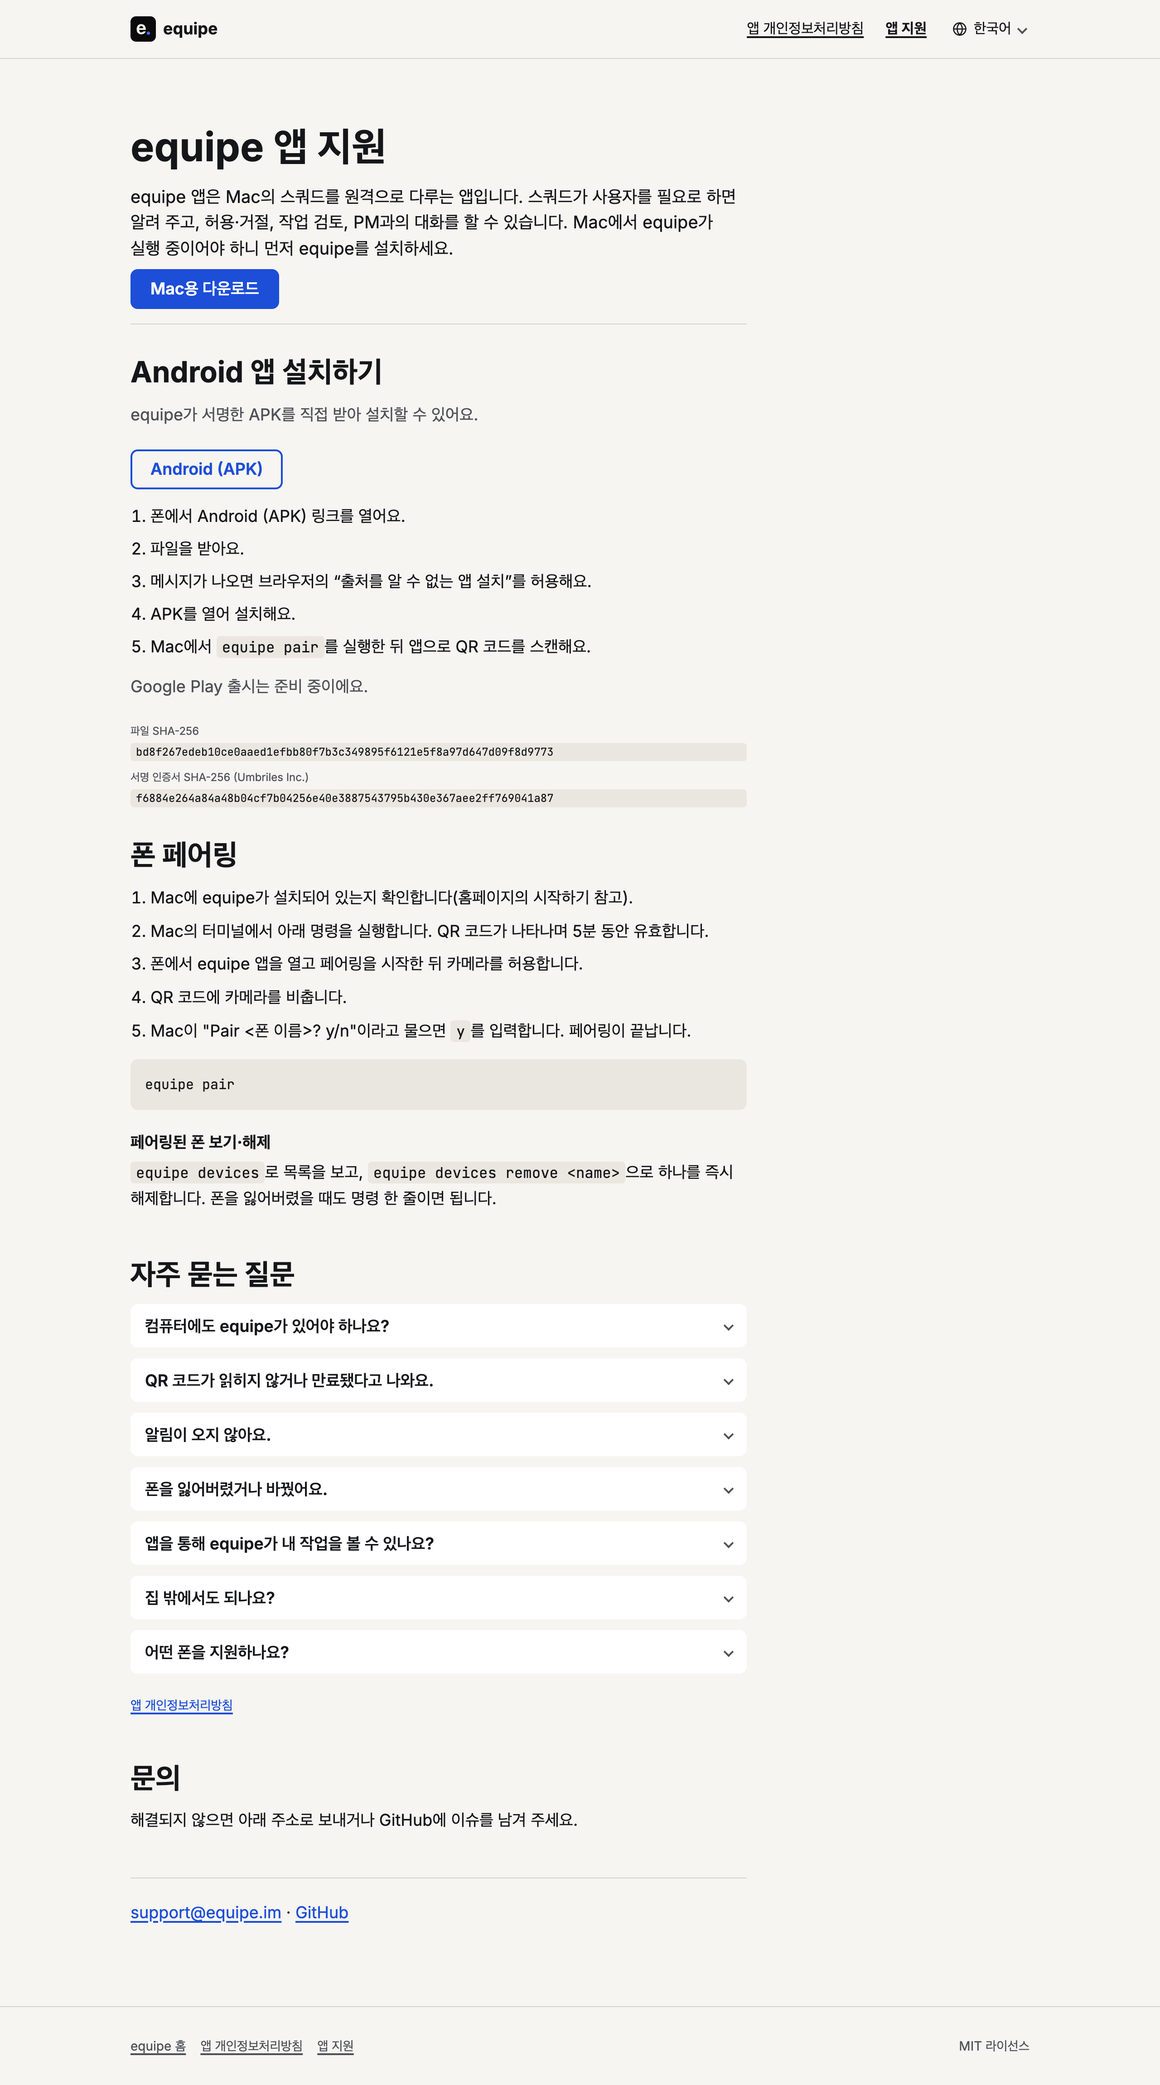
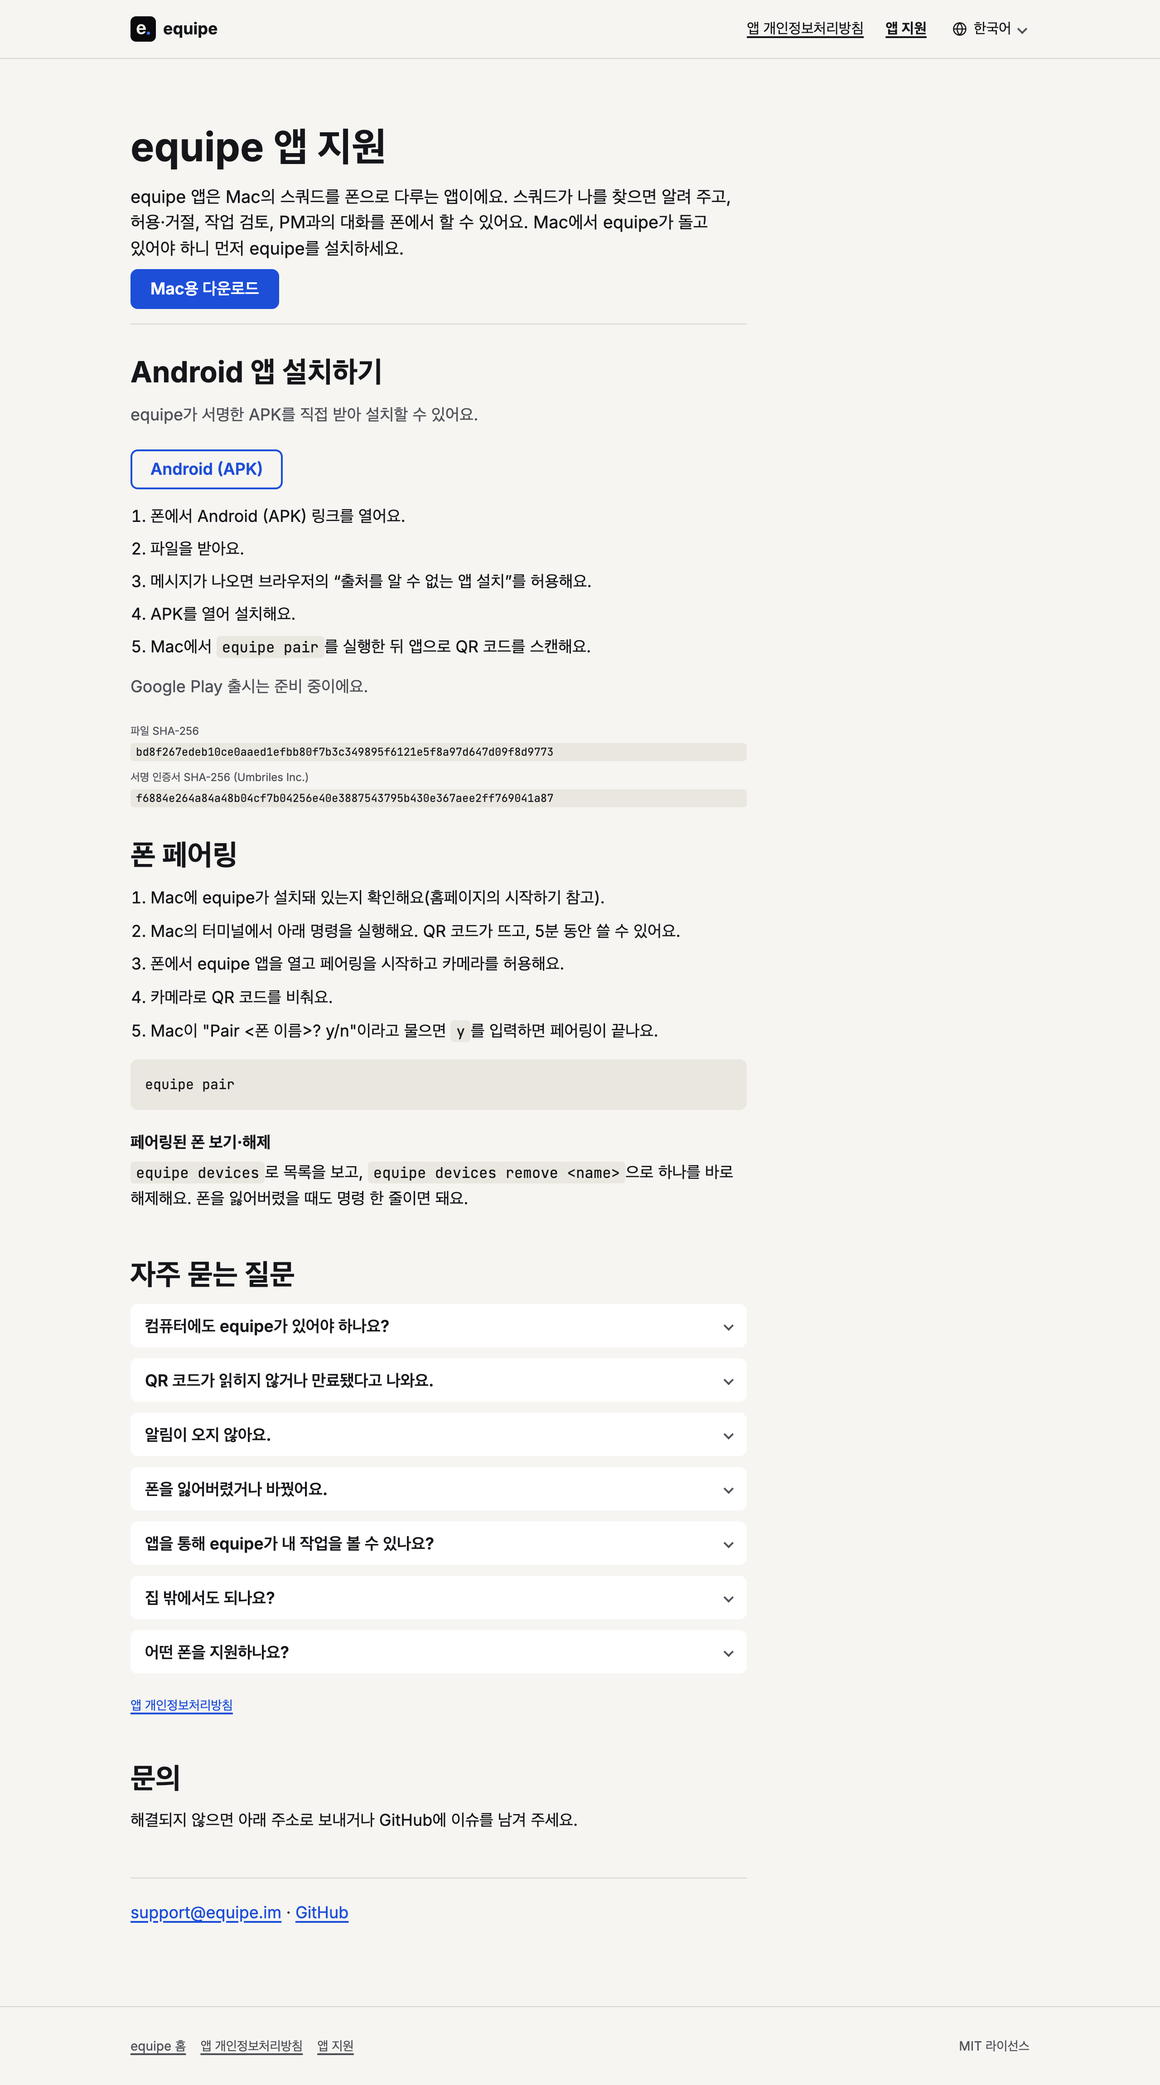
equipe: T-724 equipe.im: Korean app support/privacy pages use 합니다체 — rewrite in 해요체
I rewrote the Korean app privacy page (/ko/app/privacy/) and support page (/ko/app/support/) from 합니다체 into 해요체, all in src/i18n/ko.ts. The meaning didn't change. I only fixed the tone and smoothed a few phrases: "사용자를 필요로 하면" became "나를 찾으면", "원격으로" became "폰으로", "즉시" became "바로". Instructions stay as "~하세요". I didn't touch any other language or the page layout.

Checks: the build (astro check) passes, and scripts tests pass 8/8. I re-shot the Korean screenshots in design/flows/mobile-app/{privacy,support}/ in light and dark at widths 390 and 1280, plus large-text shots at 390 in shots/T-724-*. Only the words changed, so the layout is the same as before.

I left a comment on the ticket about two lines on the privacy page that may no longer be true (the Face ID line, and "no cookies"). They need a separate ticket.

Run by marketing on equipe through Claude Code.

diff --git a/src/i18n/ko.ts b/src/i18n/ko.ts
@@ -202,78 +202,78 @@ equipe`,
     privacy: {
       meta: {
         title: 'equipe 앱 개인정보처리방침',
-        description: 'equipe 모바일 앱과 릴레이가 다루는 정보: 페어링 키는 폰에만 저장되고, 릴레이는 봉인된 메시지만 전달하며, 분석·추적은 없습니다.',
+        description: 'equipe 모바일 앱과 릴레이가 다루는 정보: 페어링 키는 폰에만 저장되고, 릴레이는 봉인된 메시지만 전달하며, 분석·추적은 없어요.',
       },
       title: 'equipe 앱 개인정보처리방침',
       updated: '최종 수정: 2026-11-01',
-      intro: 'equipe 앱은 폰이 내 Mac의 equipe 데몬과 대화하게 해 줍니다. 이 페이지는 앱과 equipe 릴레이가 어떤 정보를 다루는지 쉬운 말로 적었습니다.',
+      intro: 'equipe 앱은 폰이 내 Mac의 equipe 데몬과 대화하게 해 줘요. 앱과 equipe 릴레이가 어떤 정보를 다루는지 쉬운 말로 적었어요.',
       sections: [
         {
           title: '한눈에 보기',
-          text: '앱에는 계정, 광고, 분석, 충돌 보고가 없고 사용자를 추적하지 않습니다. 스쿼드의 작업 내용은 폰과 Mac 사이에서 종단간 암호화로 봉인되어 오갑니다.',
+          text: '앱에는 계정, 광고, 분석, 충돌 보고가 없고 사용자를 추적하지 않아요. 스쿼드의 작업 내용은 폰과 Mac 사이를 종단간 암호화로 봉인된 채 오가요.',
           items: [],
         },
         {
           title: '폰에만 저장되는 것',
-          text: '다음은 기기에만 저장됩니다.',
+          text: '아래 정보는 기기에만 저장돼요.',
           items: [
-            '**페어링 키.** 폰의 키 쌍, 페어링할 때 받은 릴레이 토큰, Mac의 공개 키와 이름입니다. iOS에서는 Keychain, Android에서는 Android Keystore로 보호되는 저장소에 있습니다. 개인 키는 폰 밖으로 나가지 않으며, 릴레이 토큰은 폰이 릴레이에 로그인할 때만 릴레이로 보냅니다.',
-            '**카메라.** 페어링 QR 코드를 읽는 데만 씁니다. 이미지는 저장하거나 어디로도 보내지 않습니다.',
-            '**Face ID 또는 지문.** 승인을 보내기 전에 폰이 확인합니다. equipe는 생체 정보를 받지 않습니다.',
+            '**페어링 키.** 폰의 키 쌍, 페어링할 때 받은 릴레이 토큰, Mac의 공개 키와 이름이에요. iOS는 Keychain, Android는 Android Keystore로 보호되는 저장소에 둬요. 개인 키는 폰 밖으로 나가지 않고, 릴레이 토큰은 폰이 릴레이에 로그인할 때만 보내요.',
+            '**카메라.** 페어링 QR 코드를 읽는 데만 써요. 이미지는 저장하지도, 어디로 보내지도 않아요.',
+            '**Face ID 또는 지문.** 승인을 보내기 전에 폰이 확인해요. equipe는 생체 정보를 받지 않아요.',
           ],
         },
         {
           title: 'equipe 릴레이가 다루는 것',
-          text: '폰과 Mac은 둘 다 equipe-labs가 운영하는 릴레이(`relay.equipe.im`)에 연결합니다. 둘 사이의 모든 내용은 두 기기만 가진 키로 종단간 봉인되므로, 릴레이는 티켓·메시지·승인을 읽을 수 없습니다.',
+          text: '폰과 Mac은 둘 다 equipe-labs가 운영하는 릴레이(`relay.equipe.im`)에 연결해요. 둘 사이의 모든 내용은 두 기기만 가진 키로 종단간 봉인돼서, 릴레이는 티켓·메시지·승인을 읽을 수 없어요.',
           items: [
-            '릴레이가 볼 수 있는 것은 연결이 있다는 사실, 메시지의 크기와 시각, 그리고 Mac과 폰의 무작위 ID입니다. 이 ID는 이름과 연결되지 않습니다. 토큰은 원문이 아니라 해시만 보관합니다.',
-            '릴레이는 Cloudflare에서 실행되며, Cloudflare는 네트워크 사업자로서 각 연결의 IP 주소를 처리합니다.',
-            '이 정보로 사용자를 식별하거나 프로파일링하지 않으며, 판매하거나 제3자와 공유하지 않습니다.',
+            '릴레이가 볼 수 있는 것은 연결이 있다는 사실, 메시지의 크기와 시각, 그리고 Mac과 폰의 무작위 ID뿐이에요. 이 ID는 이름과 연결되지 않아요. 토큰은 원문이 아니라 해시만 보관해요.',
+            '릴레이는 Cloudflare에서 돌아가고, Cloudflare는 네트워크 사업자로서 각 연결의 IP 주소를 처리해요.',
+            '이 정보로 사용자를 식별하거나 프로파일링하지 않고, 팔거나 제3자와 공유하지도 않아요.',
           ],
         },
         {
           title: '푸시 알림',
-          text: '스쿼드가 사용자를 필요로 할 때 폰을 깨우기 위해 릴레이가 푸시 알림을 보냅니다.',
+          text: '스쿼드가 나를 찾을 때 폰을 깨우려고 릴레이가 푸시 알림을 보내요.',
           items: [
-            '**푸시 토큰.** 릴레이는 폰의 푸시 토큰(iOS는 APNs, Android는 Firebase Cloud Messaging)을 페어링에 연결해 보관합니다. 이름과는 연결되지 않습니다.',
-            '화면에 보이는 문구에는 누가 무엇을 필요로 하는지만 있습니다. 자세한 내용은 봉인된 채 전달되어 폰에서 열립니다.',
-            'Apple과 Google이 각자의 개인정보 정책에 따라 알림을 전달합니다. Android에서는 Firebase Messaging이 폰의 설치 ID도 만듭니다.',
+            '**푸시 토큰.** 릴레이는 폰의 푸시 토큰(iOS는 APNs, Android는 Firebase Cloud Messaging)을 페어링에 묶어 보관해요. 이름과는 연결되지 않아요.',
+            '화면에 보이는 문구에는 누가 무엇을 필요로 하는지만 담겨요. 자세한 내용은 봉인된 채 전달되고 폰에서 열려요.',
+            'Apple과 Google이 각자의 개인정보 정책에 따라 알림을 전달해요. Android에서는 Firebase Messaging이 폰의 설치 ID도 만들어요.',
           ],
         },
         {
           title: '분석과 추적',
-          text: '앱에는 분석, 광고, 충돌 보고 도구가 없고, 다른 앱이나 웹사이트에서 사용자를 추적하지 않습니다. 이 방침은 앱과 릴레이에 적용됩니다. 웹사이트 equipe.im은 쿠키나 로컬 저장소 없이 PostHog로 방문 수를 세며 개인 프로필을 만들지 않습니다.',
+          text: '앱에는 분석, 광고, 충돌 보고 도구가 없고, 다른 앱이나 웹사이트에서 사용자를 추적하지 않아요. 이 방침은 앱과 릴레이에 적용돼요. 웹사이트 equipe.im은 쿠키나 로컬 저장소 없이 PostHog로 방문 수를 세고, 개인 프로필은 만들지 않아요.',
           items: [],
         },
         {
           title: 'equipe 데스크톱: 익명 사용 데이터',
-          text: 'equipe 데스크톱 앱은 처음 실행할 때 익명 사용 데이터를 보낼지 묻습니다. 예라고 하기 전에는 아무것도 보내지 않습니다. 휴대폰 앱은 이 데이터를 보내지 않습니다.',
+          text: 'equipe 데스크톱 앱은 처음 실행할 때 익명 사용 데이터를 보낼지 물어요. 예라고 하기 전에는 아무것도 보내지 않아요. 휴대폰 앱은 이 데이터를 보내지 않아요.',
           items: [
-            '**보내는 것.** 아래 이벤트만 보냅니다: `first_run`, `squad_created`, `ticket_created`, `work_handed_in`, `work_accepted`, `daily_active`. equipe 버전, `macos` 또는 `linux`, 무작위 설치 ID와 스쿼드 ID, 그리고 티켓 종류(`code`, `task`, `action`)나 하루 승인 횟수(범위) 같은 값만 담깁니다. 팀 규모, 티켓을 만들거나 승인한 쪽(`person`, `pm`, `member`), 쓴 엔진(`claude`, `codex`), 날짜 같은 단순한 값도 함께 갑니다. 전체 목록은 `docs/TELEMETRY.md`에 있습니다.',
-            '**절대 보내지 않는 것.** 대화·프롬프트·답변, 티켓 제목·본문·댓글·이미지, 파일·폴더·저장소·URL, 스쿼드·멤버·프로젝트·사람 이름, 이메일·전화번호·계정, 호스트 이름 같은 기기 식별자는 보내지 않습니다.',
-            '**프로필 없음.** 사람 프로필과 GeoIP 조회를 끈 채로 보냅니다. 무작위 ID는 내 정보나 Mac에서 만들어지지 않습니다.',
-            '**받는 곳.** 미국의 PostHog입니다(equipe.im 방문을 세는 것과 같은 프로젝트). 요청이 닿을 때 IP 주소를 잠깐 거치지만 저장하지 않습니다(이 PostHog 프로젝트는 클라이언트 IP를 버리도록 설정했습니다).',
-            '**끄는 법.** `equipe telemetry off`를 실행하거나 `EQUIPE_TELEMETRY=off`를 설정하세요. 바로 적용되고 설치 ID도 지워집니다. `equipe telemetry status`로 현재 상태를 볼 수 있습니다. 전체 목록은 equipe 저장소의 `docs/TELEMETRY.md`에 있습니다.',
+            '**보내는 것.** 아래 이벤트만 보내요: `first_run`, `squad_created`, `ticket_created`, `work_handed_in`, `work_accepted`, `daily_active`. equipe 버전, `macos` 또는 `linux`, 무작위 설치 ID와 스쿼드 ID, 그리고 티켓 종류(`code`, `task`, `action`)나 하루 승인 횟수(범위) 같은 값만 담겨요. 팀 규모, 티켓을 만들거나 승인한 쪽(`person`, `pm`, `member`), 쓴 엔진(`claude`, `codex`), 날짜 같은 단순한 값도 함께 가요. 전체 목록은 `docs/TELEMETRY.md`에 있어요.',
+            '**절대 보내지 않는 것.** 대화·프롬프트·답변, 티켓 제목·본문·댓글·이미지, 파일·폴더·저장소·URL, 스쿼드·멤버·프로젝트·사람 이름, 이메일·전화번호·계정, 호스트 이름 같은 기기 식별자는 보내지 않아요.',
+            '**프로필 없음.** 사람 프로필과 GeoIP 조회를 끈 채로 보내요. 무작위 ID는 내 정보나 Mac 정보로 만들지 않아요.',
+            '**받는 곳.** 미국의 PostHog예요(equipe.im 방문을 세는 것과 같은 프로젝트). 요청이 닿을 때 IP 주소를 잠깐 거치지만 저장하지 않아요(이 PostHog 프로젝트는 클라이언트 IP를 버리도록 설정했어요).',
+            '**끄는 법.** `equipe telemetry off`를 실행하거나 `EQUIPE_TELEMETRY=off`를 설정하세요. 바로 적용되고 설치 ID도 지워져요. `equipe telemetry status`로 현재 상태를 볼 수 있어요. 전체 목록은 equipe 저장소의 `docs/TELEMETRY.md`에 있어요.',
           ],
         },
         {
           title: '보관과 삭제',
-          text: '페어링을 얼마나 유지할지는 사용자가 정합니다.',
+          text: '페어링을 얼마나 둘지는 내가 정해요.',
           items: [
-            '앱에서 이 기기의 페어링을 해제하면 폰의 키가 지워지고, 릴레이의 페어링 기록과 푸시 토큰도 삭제됩니다.',
-            'Mac에서 `equipe devices remove <name>`을 실행하면 그 폰을 즉시 해제합니다.',
-            '릴레이는 페어링이 있는 동안에만 푸시 토큰과 페어링 기록을 보관합니다.',
-            'Android는 앱을 지우면 앱 데이터도 사라집니다. iOS는 앱을 지워도 Keychain 항목이 남을 수 있으니 먼저 페어링을 해제하세요.',
+            '앱에서 이 기기의 페어링을 해제하면 폰의 키가 지워지고, 릴레이의 페어링 기록과 푸시 토큰도 삭제돼요.',
+            'Mac에서 `equipe devices remove <name>`을 실행하면 그 폰이 바로 해제돼요.',
+            '릴레이는 페어링이 있는 동안에만 푸시 토큰과 페어링 기록을 보관해요.',
+            'Android는 앱을 지우면 앱 데이터도 사라져요. iOS는 앱을 지워도 Keychain 항목이 남을 수 있으니 먼저 페어링을 해제하세요.',
           ],
         },
         {
           title: '아동',
-          text: '앱은 아동을 대상으로 하지 않으며, 아동의 개인정보를 알면서 수집하지 않습니다.',
+          text: '앱은 아동을 대상으로 하지 않고, 아동의 개인정보를 알면서 수집하지 않아요.',
           items: [],
         },
         {
           title: '변경',
-          text: '방침이 바뀌면 위의 날짜와 이 페이지를 고칩니다.',
+          text: '방침이 바뀌면 위 날짜와 이 페이지를 고쳐요.',
           items: [],
         },
         {
@@ -289,26 +289,26 @@ equipe`,
         description: '`equipe pair`로 equipe 앱을 Mac과 페어링하는 방법, 자주 묻는 질문, 문의 방법.',
       },
       title: 'equipe 앱 지원',
-      intro: 'equipe 앱은 Mac의 스쿼드를 원격으로 다루는 앱입니다. 스쿼드가 사용자를 필요로 하면 알려 주고, 허용·거절, 작업 검토, PM과의 대화를 할 수 있습니다. Mac에서 equipe가 실행 중이어야 하니 먼저 equipe를 설치하세요.',
+      intro: 'equipe 앱은 Mac의 스쿼드를 폰으로 다루는 앱이에요. 스쿼드가 나를 찾으면 알려 주고, 허용·거절, 작업 검토, PM과의 대화를 폰에서 할 수 있어요. Mac에서 equipe가 돌고 있어야 하니 먼저 equipe를 설치하세요.',
       pairTitle: '폰 페어링',
       pairSteps: [
-        'Mac에 equipe가 설치되어 있는지 확인합니다(홈페이지의 시작하기 참고).',
-        'Mac의 터미널에서 아래 명령을 실행합니다. QR 코드가 나타나며 5분 동안 유효합니다.',
-        '폰에서 equipe 앱을 열고 페어링을 시작한 뒤 카메라를 허용합니다.',
-        'QR 코드에 카메라를 비춥니다.',
-        'Mac이 "Pair <폰 이름>? y/n"이라고 물으면 `y`를 입력합니다. 페어링이 끝납니다.',
+        'Mac에 equipe가 설치돼 있는지 확인해요(홈페이지의 시작하기 참고).',
+        'Mac의 터미널에서 아래 명령을 실행해요. QR 코드가 뜨고, 5분 동안 쓸 수 있어요.',
+        '폰에서 equipe 앱을 열고 페어링을 시작하고 카메라를 허용해요.',
+        '카메라로 QR 코드를 비춰요.',
+        'Mac이 "Pair <폰 이름>? y/n"이라고 물으면 `y`를 입력하면 페어링이 끝나요.',
       ],
       pairCode: 'equipe pair',
       removeTitle: '페어링된 폰 보기·해제',
-      removeText: '`equipe devices`로 목록을 보고, `equipe devices remove <name>`으로 하나를 즉시 해제합니다. 폰을 잃어버렸을 때도 명령 한 줄이면 됩니다.',
+      removeText: '`equipe devices`로 목록을 보고, `equipe devices remove <name>`으로 하나를 바로 해제해요. 폰을 잃어버렸을 때도 명령 한 줄이면 돼요.',
       faqTitle: '자주 묻는 질문',
       faq: [
-        { question: '컴퓨터에도 equipe가 있어야 하나요?', answer: '네. 앱은 Mac의 equipe 데몬을 원격으로 다루는 앱이라, 데몬이 없으면 연결할 대상이 없습니다. 먼저 equipe를 설치하세요.' },
-        { question: 'QR 코드가 읽히지 않거나 만료됐다고 나와요.', answer: '코드는 5분 동안만 유효합니다. `equipe pair`를 다시 실행해 새 코드를 만들고, 화면에서 QR을 크고 밝게 띄워 보세요.' },
+        { question: '컴퓨터에도 equipe가 있어야 하나요?', answer: '네. 앱은 Mac의 equipe 데몬을 원격으로 다루는 앱이라, 데몬이 없으면 연결할 곳이 없어요. 먼저 equipe를 설치하세요.' },
+        { question: 'QR 코드가 읽히지 않거나 만료됐다고 나와요.', answer: '코드는 5분 동안만 쓸 수 있어요. `equipe pair`를 다시 실행해 새 코드를 만들고, 화면에서 QR을 크고 밝게 띄워 보세요.' },
         { question: '알림이 오지 않아요.', answer: '폰 설정에서 equipe 알림이 허용되어 있는지, Mac에서 데몬이 실행 중인지(`equipe status`) 확인하세요.' },
         { question: '폰을 잃어버렸거나 바꿨어요.', answer: 'Mac에서 `equipe devices remove <name>`을 실행한 뒤, 새 폰을 `equipe pair`로 페어링하세요.' },
-        { question: '앱을 통해 equipe가 내 작업을 볼 수 있나요?', answer: '아니요. 폰과 Mac 사이의 메시지는 종단간 봉인되고 릴레이는 전달만 합니다. 자세한 내용은 개인정보처리방침을 보세요.' },
-        { question: '집 밖에서도 되나요?', answer: '됩니다. 폰과 Mac이 모두 릴레이로 먼저 연결하므로 Wi-Fi, 모바일 데이터, 공유기 뒤의 네트워크 모두 동작합니다.' },
+        { question: '앱을 통해 equipe가 내 작업을 볼 수 있나요?', answer: '아니요. 폰과 Mac 사이의 메시지는 종단간 봉인되고 릴레이는 전달만 해요. 자세한 내용은 개인정보처리방침을 보세요.' },
+        { question: '집 밖에서도 되나요?', answer: '돼요. 폰과 Mac이 둘 다 릴레이로 먼저 연결해서 Wi-Fi, 모바일 데이터, 공유기 뒤 네트워크 어디서든 동작해요.' },
         { question: '어떤 폰을 지원하나요?', answer: 'iOS 17 이상의 iPhone과 Android 8.0 이상을 지원해요. Android는 서명된 APK로 받을 수 있고, Google Play 출시는 준비 중이에요.' },
       ],
       contactTitle: '문의',
